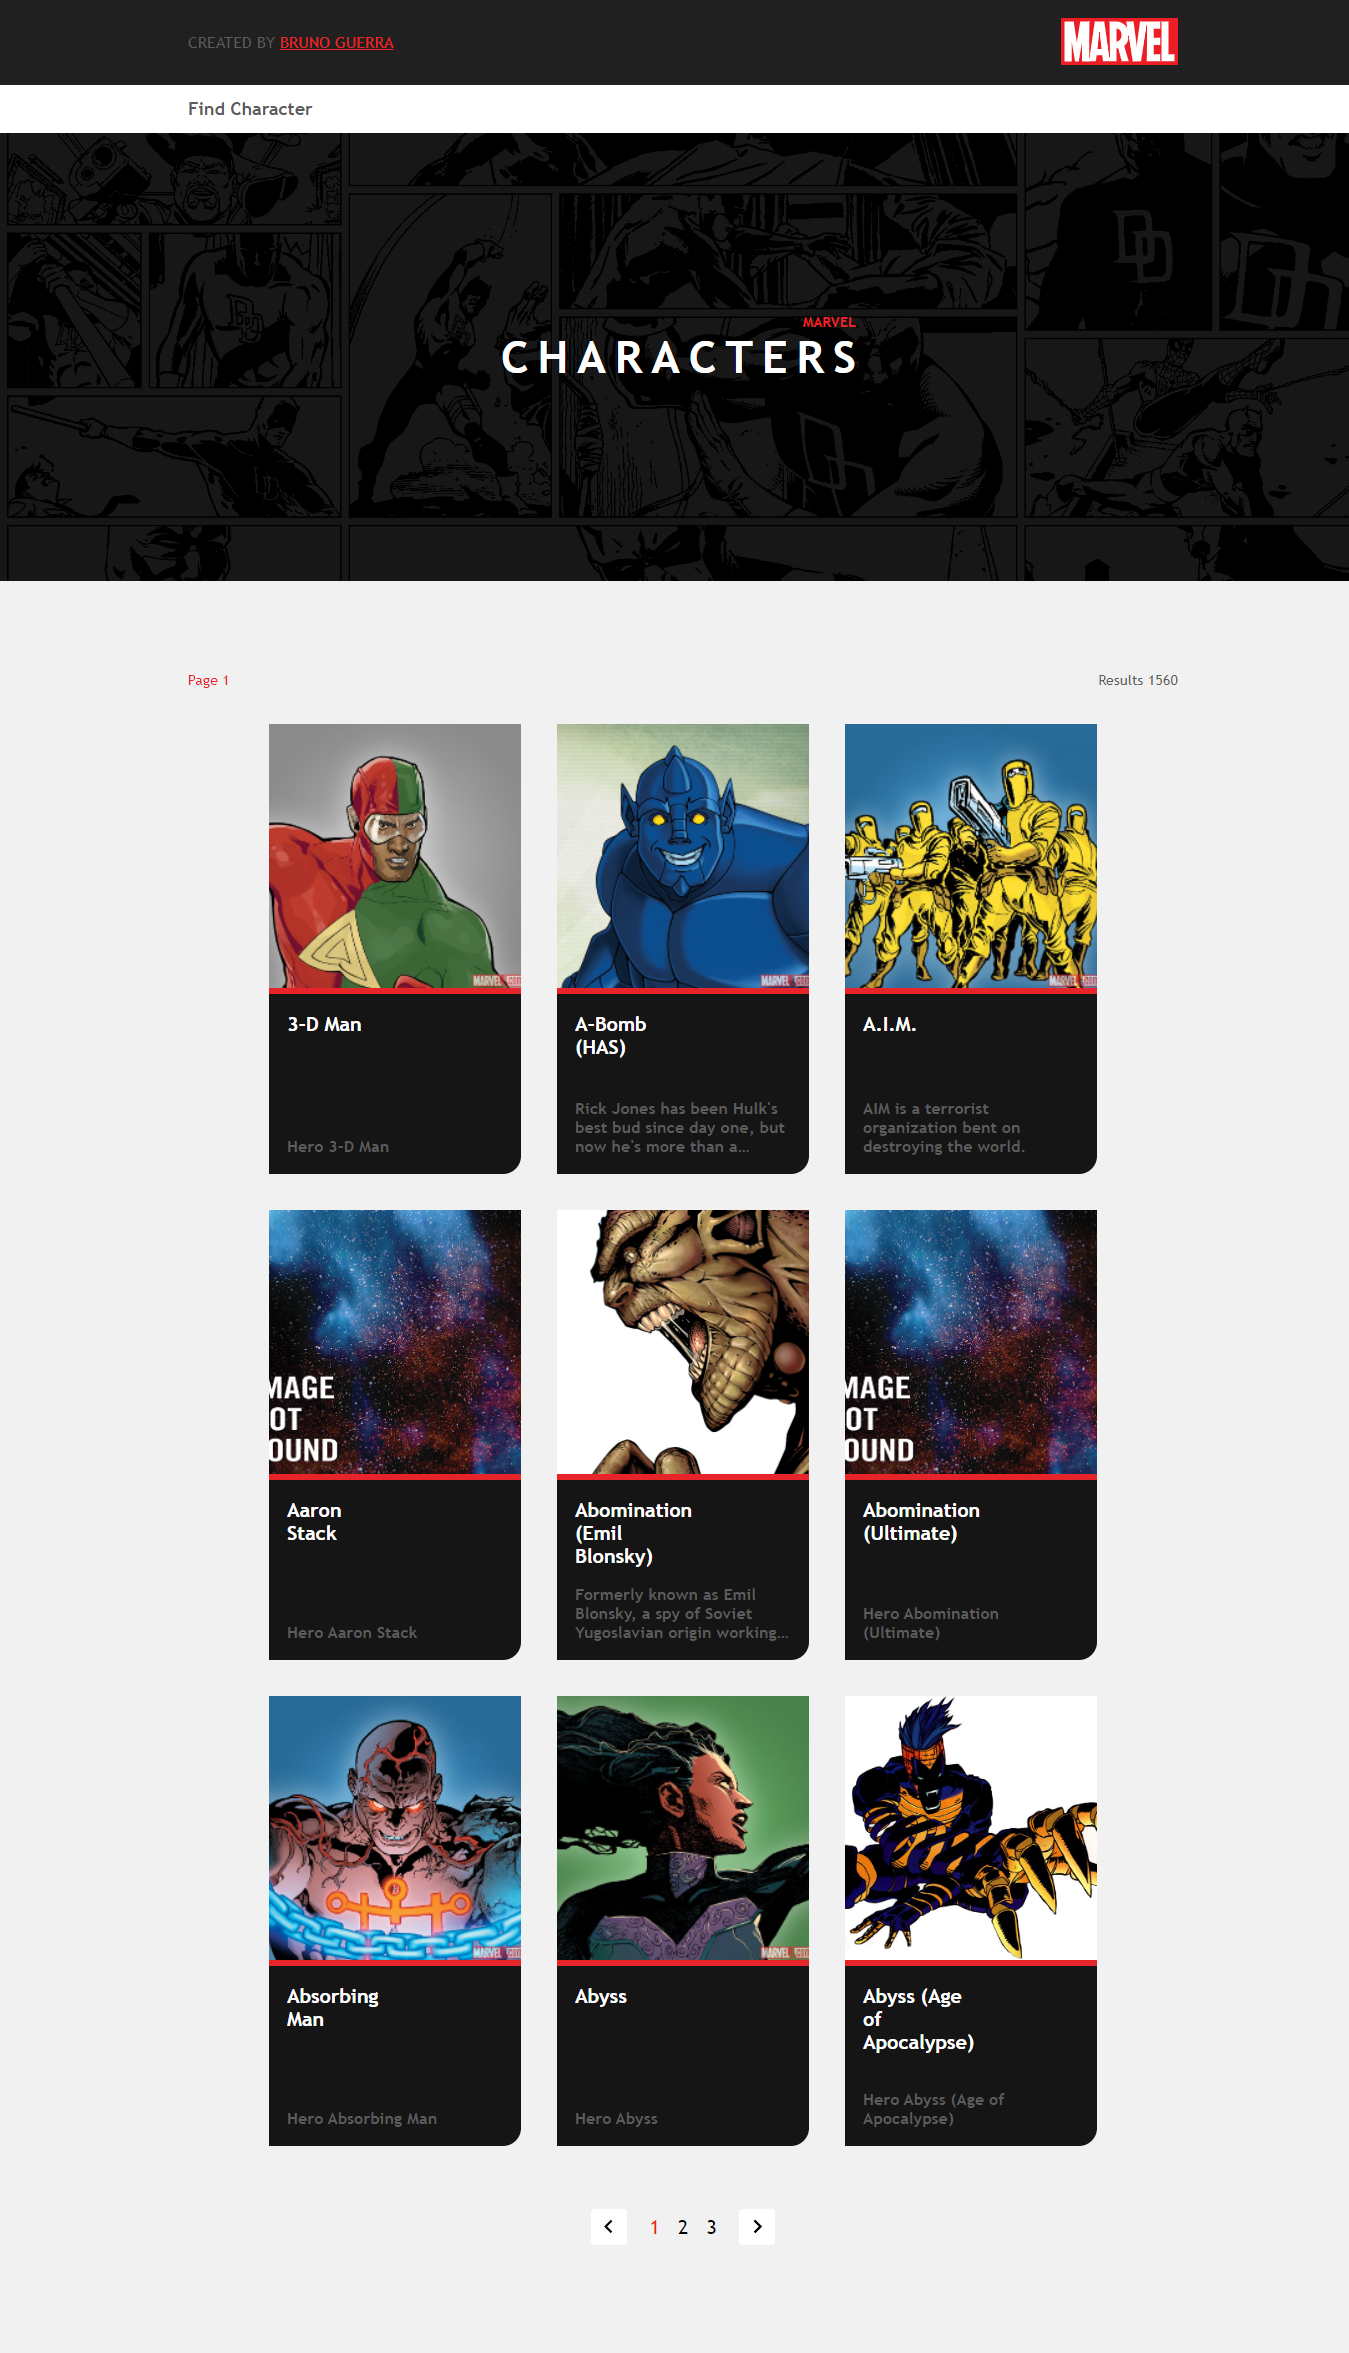
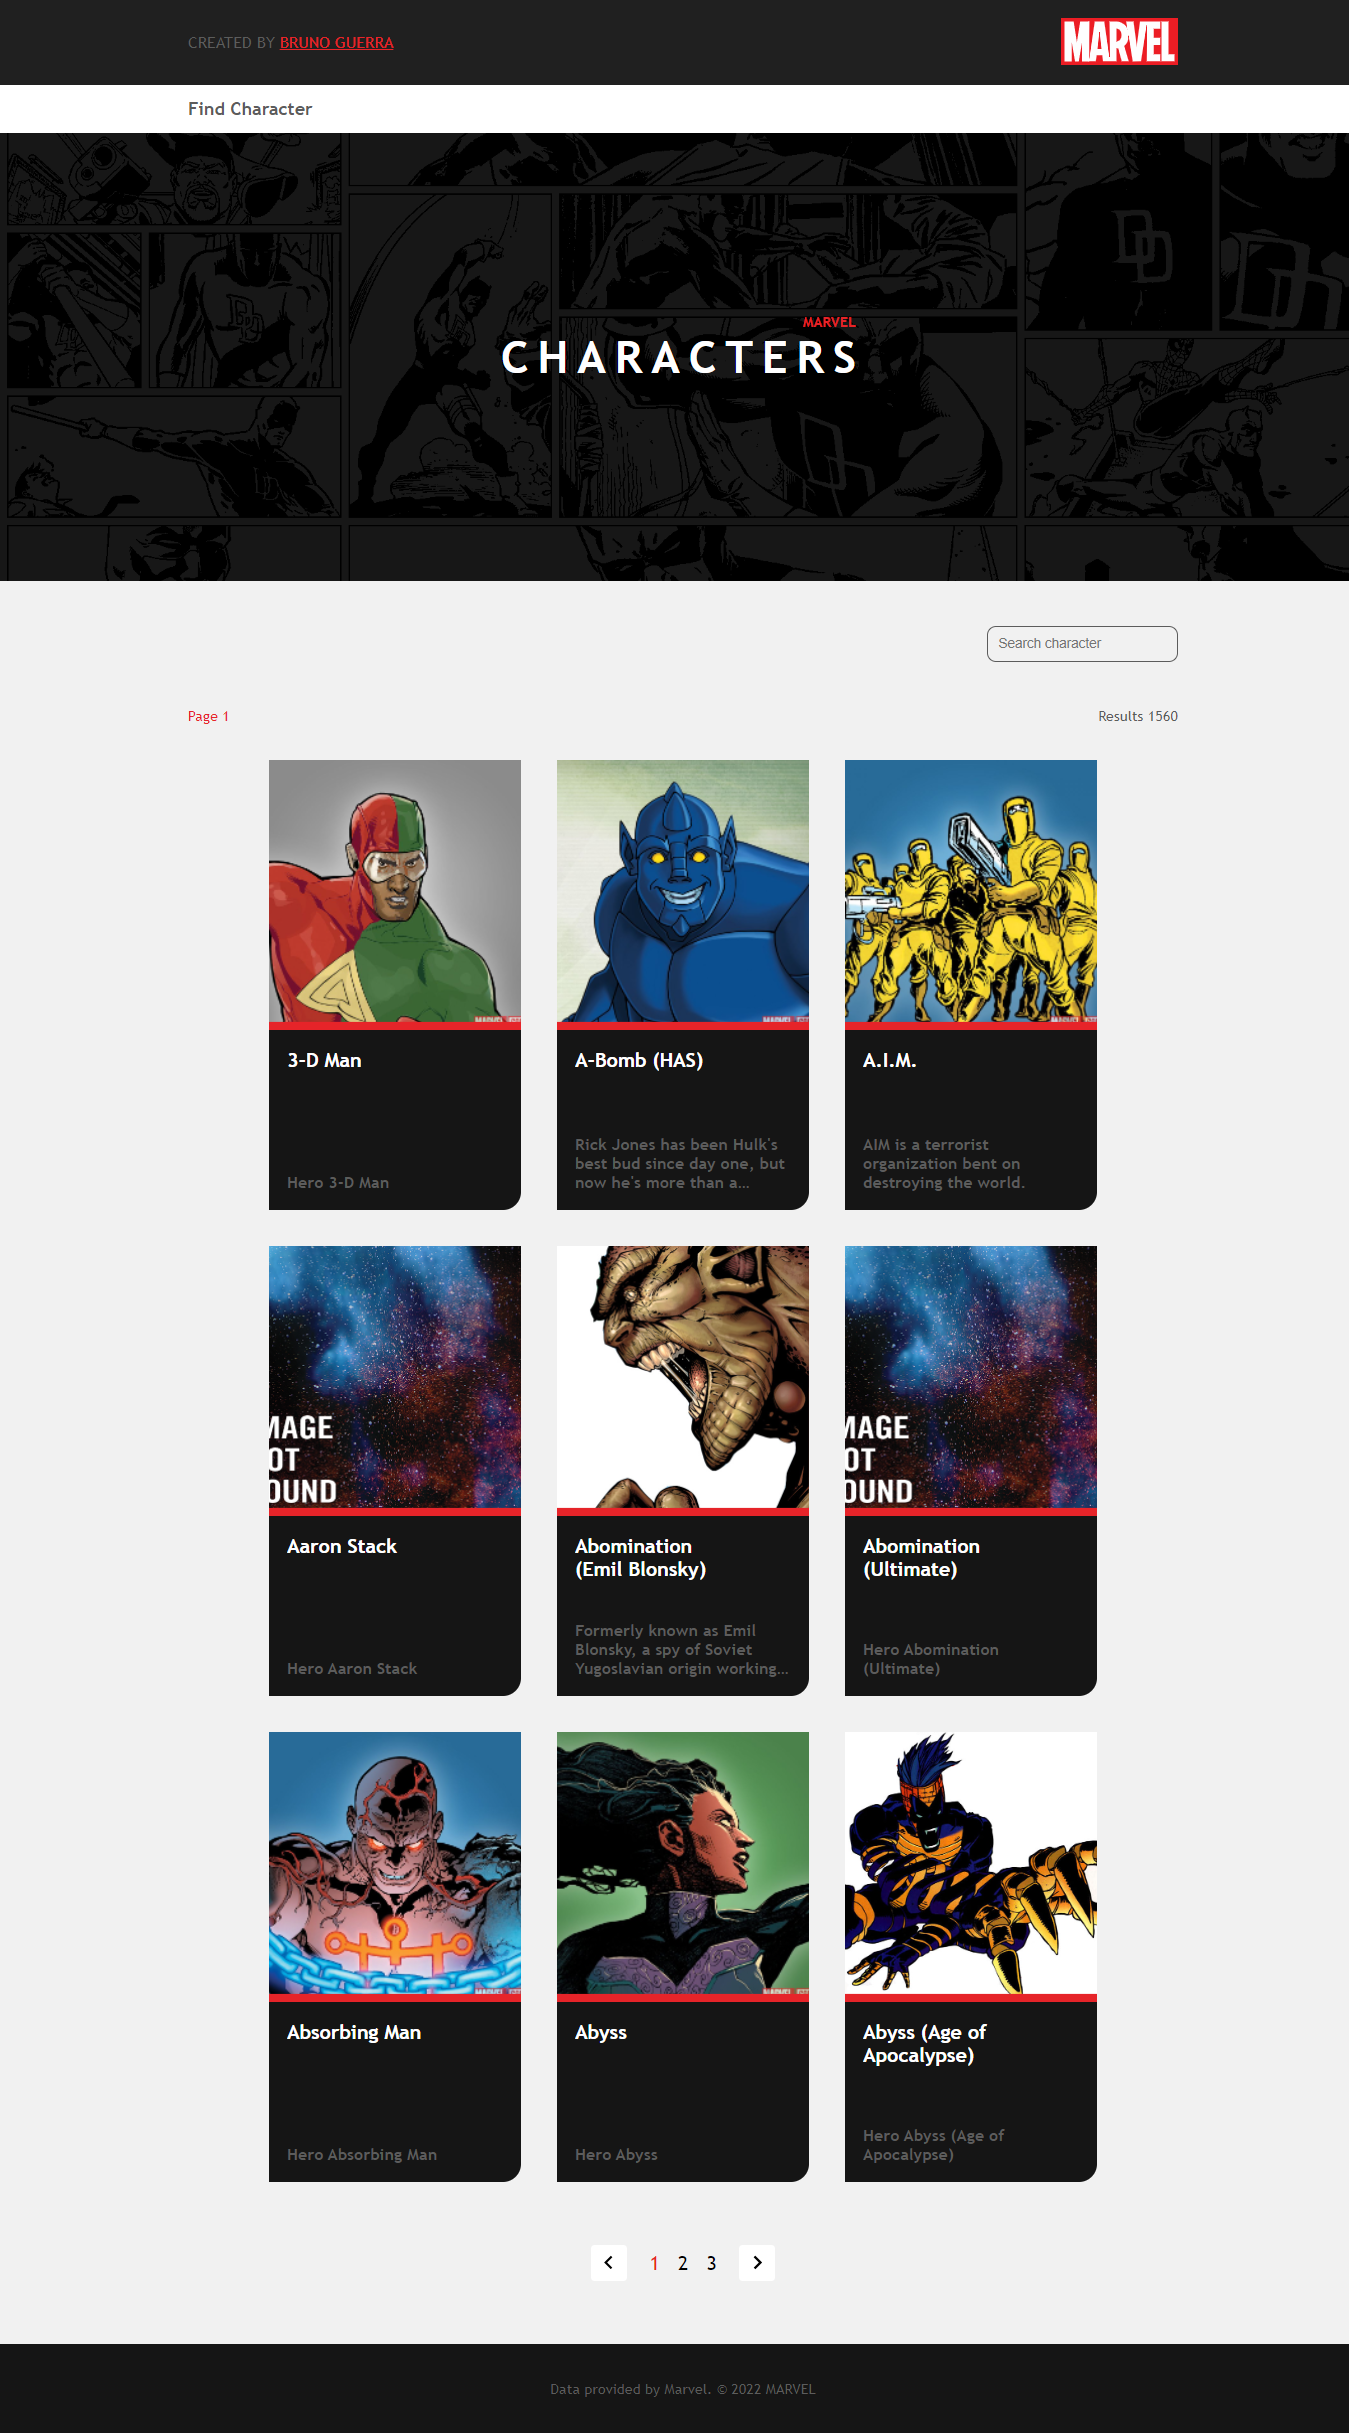
added search input and footer component

diff --git a/src/pages/Home/index.tsx b/src/pages/Home/index.tsx
@@ -14,23 +14,36 @@ interface ResponseData {
         path: string;
         extension: string;
     };
+    urls: [{ type: string; url: string }];
+}
+
+interface PropsInput {
+    target: {
+        value: string;
+    };
 }
 
 export const Home = () => {
     const [characters, setCharacters] = useState<ResponseData[]>([]);
     const [totalCharacters, setTotalCharacters] = useState(0);
     const [currentPage, setCurrentPage] = useState(0);
+    const [valueInput, setValueInput] = useState("");
 
     useEffect(() => {
         api.get("/characters", {
-            params: { offset: 9 * currentPage },
+            params: {
+                offset: 9 * currentPage,
+                nameStartsWith: valueInput || null,
+            },
         })
             .then((response) => {
+                console.log(response.data);
                 setCharacters(response.data.data.results);
                 setTotalCharacters(response.data.data.total);
+                currentPage * 9 > totalCharacters ? setCurrentPage(0) : false;
             })
             .catch((error) => console.log(error));
-    }, [totalCharacters, currentPage]);
+    }, [totalCharacters, currentPage, valueInput]);
 
     function forwardPage() {
         totalCharacters - (currentPage + 1) * 9 < 0
@@ -41,10 +54,24 @@ export const Home = () => {
         currentPage > 0 ? setCurrentPage(currentPage - 1) : setCurrentPage(0);
     }
 
+    function onChange(evInput: PropsInput) {
+        console.log(evInput.target.value);
+        setValueInput(evInput.target.value);
+    }
+
     return (
         <>
             <Banner />
             <Container>
+                <div className="searchInput">
+                    <form action="">
+                        <input
+                            type="text"
+                            placeholder="Search character"
+                            onChange={(e) => onChange(e)}
+                        />
+                    </form>
+                </div>
                 <div className="title">
                     <p>Page {currentPage + 1}</p>
                     <p>
@@ -55,7 +82,7 @@ export const Home = () => {
                     </p>
                 </div>
                 <div className="contentHome">
-                    {characters.map((character, index) => {
+                    {characters.map((character) => {
                         return (
                             <CardCharacter
                                 nameCharacter={character.name}
@@ -65,6 +92,7 @@ export const Home = () => {
                                 }
                                 urlImage={`${character.thumbnail.path}.${character.thumbnail.extension}`}
                                 key={character.id}
+                                urlUtils={character.urls}
                             />
                         );
                     })}

diff --git a/src/Components/CardCharacter/style.ts b/src/Components/CardCharacter/style.ts
@@ -8,10 +8,11 @@ export const Container = styled.div<PropsImage>`
     width: 28rem;
     border-radius: 0 0 2rem 0;
     overflow: hidden;
+    cursor: pointer;
     .image {
         height: 30rem;
         overflow: hidden;
-        border-bottom: 0.7rem solid var(--red);
+        position: relative;
         .img {
             width: 100%;
             min-height: 100%;
@@ -20,6 +21,33 @@ export const Container = styled.div<PropsImage>`
             background-size: cover;
             background-repeat: no-repeat;
             transition: all 0.2s ease;
+            z-index: 1;
+        }
+        .links {
+            position: absolute;
+            left: 0;
+            bottom: 0;
+            z-index: 10;
+
+            width: 100%;
+            height: 100%;
+            transform: translateY(97%);
+            overflow: hidden;
+
+            display: flex;
+            flex-direction: column;
+            gap: 2rem;
+            align-items: center;
+            justify-content: center;
+
+            background-color: var(--red);
+            transition: 0.7s ease;
+            a {
+                text-transform: uppercase;
+                font-size: 2rem;
+                font-weight: bold;
+                color: var(--white-text);
+            }
         }
     }
     .content {
@@ -31,12 +59,16 @@ export const Container = styled.div<PropsImage>`
         flex-direction: column;
         justify-content: space-between;
         h3 {
+            display: -webkit-box;
+            -webkit-line-clamp: 3;
+            -webkit-box-orient: vertical;
+            overflow: hidden;
             font-size: 2.2rem;
             font-weight: bold;
             color: var(--white-text);
-            max-width: 50%;
+            max-width: 70%;
         }
-        a {
+        p {
             display: -webkit-box;
             -webkit-line-clamp: 3;
             -webkit-box-orient: vertical;
@@ -49,6 +81,9 @@ export const Container = styled.div<PropsImage>`
     &:hover .image {
         .img {
             transform: scale(1.1);
+        }
+        .links {
+            transform: translateY(0%);
         }
     }
 `;

diff --git a/src/Components/CardCharacter/index.tsx b/src/Components/CardCharacter/index.tsx
@@ -4,23 +4,34 @@ interface PropsCharacter {
     nameCharacter: string;
     descriptionCharacter: string;
     urlImage: string;
+    urlUtils: [{ type: string; url: string }];
 }
 
 export const CardCharacter = ({
     nameCharacter,
     descriptionCharacter,
     urlImage,
+    urlUtils,
 }: PropsCharacter) => {
     return (
         <Container image={urlImage}>
             <div className="image">
                 <div className="img"></div>
+                <div className="links">
+                    {urlUtils.map((url) => {
+                        return (
+                            <a href={url.url} target="_blank">
+                                {url.type === "comiclink"
+                                    ? "comics and series"
+                                    : url.type}
+                            </a>
+                        );
+                    })}
+                </div>
             </div>
             <div className="content">
-                <h3>{nameCharacter}</h3>
-                <a href="" title={descriptionCharacter}>
-                    {descriptionCharacter}
-                </a>
+                <h3 title={nameCharacter}>{nameCharacter}</h3>
+                <p title={descriptionCharacter}>{descriptionCharacter}</p>
             </div>
         </Container>
     );

diff --git a/src/pages/Home/style.ts b/src/pages/Home/style.ts
@@ -3,7 +3,34 @@ import styled from "styled-components";
 export const Container = styled.section`
     width: min(110rem, 90%);
     margin: 0 auto;
-    padding: 10rem 0;
+    padding: 5rem 0;
+    .searchInput {
+        width: 100%;
+        display: flex;
+        justify-content: flex-end;
+        margin-bottom: 5rem;
+        form {
+            height: 4rem;
+            display: flex;
+            align-items: center;
+            justify-content: center;
+            border-radius: 1rem;
+            border: 0;
+            overflow: hidden;
+            border: 0.2rem solid var(--gray-text);
+            input {
+                font-size: 1.5rem;
+                outline: none;
+                height: 100%;
+                padding: 0 1rem;
+            }
+            button {
+                width: 4rem;
+                height: 100%;
+                font-size: 0;
+            }
+        }
+    }
     .title {
         width: 100%;
         display: flex;

diff --git a/src/Components/Header/index.tsx b/src/Components/Header/index.tsx
@@ -1,6 +1,4 @@
 import { Container } from "./style";
-import { BsSearch } from "react-icons/bs";
-import { useState } from "react";
 
 export const Header = () => {
     return (
@@ -25,17 +23,6 @@ export const Header = () => {
             <div className="searchCharacters">
                 <div className="contentBoxSearch">
                     <h2>Find Character</h2>
-                    {/* <form action="">
-                        <input type="text" placeholder="Search character" />
-                        <button
-                            type="submit"
-                            onClick={(e) => {
-                                e.preventDefault();
-                            }}
-                        >
-                            <BsSearch size={20} />
-                        </button>
-                    </form> */}
                 </div>
             </div>
         </Container>

diff --git a/src/Components/Header/style.ts b/src/Components/Header/style.ts
@@ -52,27 +52,6 @@ export const Container = styled.header`
                 font-size: 2rem;
                 color: var(--gray-text);
             }
-            form {
-                height: 4rem;
-                display: flex;
-                align-items: center;
-                justify-content: center;
-                border-radius: 1rem;
-                border: 0;
-                overflow: hidden;
-                border: 0.2rem solid var(--gray-text);
-                input {
-                    font-size: 1.5rem;
-                    outline: none;
-                    height: 100%;
-                    padding: 0 1rem;
-                }
-                button {
-                    width: 4rem;
-                    height: 100%;
-                    font-size: 0;
-                }
-            }
         }
     }
 `;

diff --git a/src/App.tsx b/src/App.tsx
@@ -1,3 +1,4 @@
+import { Footer } from "./Components/Footer";
 import { Header } from "./Components/Header";
 import { GlobalStyle } from "./Global";
 import { Home } from "./pages/Home";
@@ -8,6 +9,7 @@ function App() {
             <GlobalStyle />
             <Header />
             <Home />
+            <Footer />
         </>
     );
 }

diff --git a/src/Components/Footer/style.ts b/src/Components/Footer/style.ts
@@ -1,0 +1,11 @@
+import styled from "styled-components";
+
+export const Container = styled.footer`
+    padding: 4rem 5rem;
+    text-align: center;
+    background-color: var(--background600);
+    a {
+        font-size: 1.6rem;
+        color: var(--gray-text);
+    }
+`;

diff --git a/src/Components/Footer/index.tsx b/src/Components/Footer/index.tsx
@@ -1,0 +1,11 @@
+import { Container } from "./style";
+
+export const Footer = () => {
+    return (
+        <Container>
+            <a href="http://marvel.com">
+                Data provided by Marvel. © 2022 MARVEL
+            </a>
+        </Container>
+    );
+};
